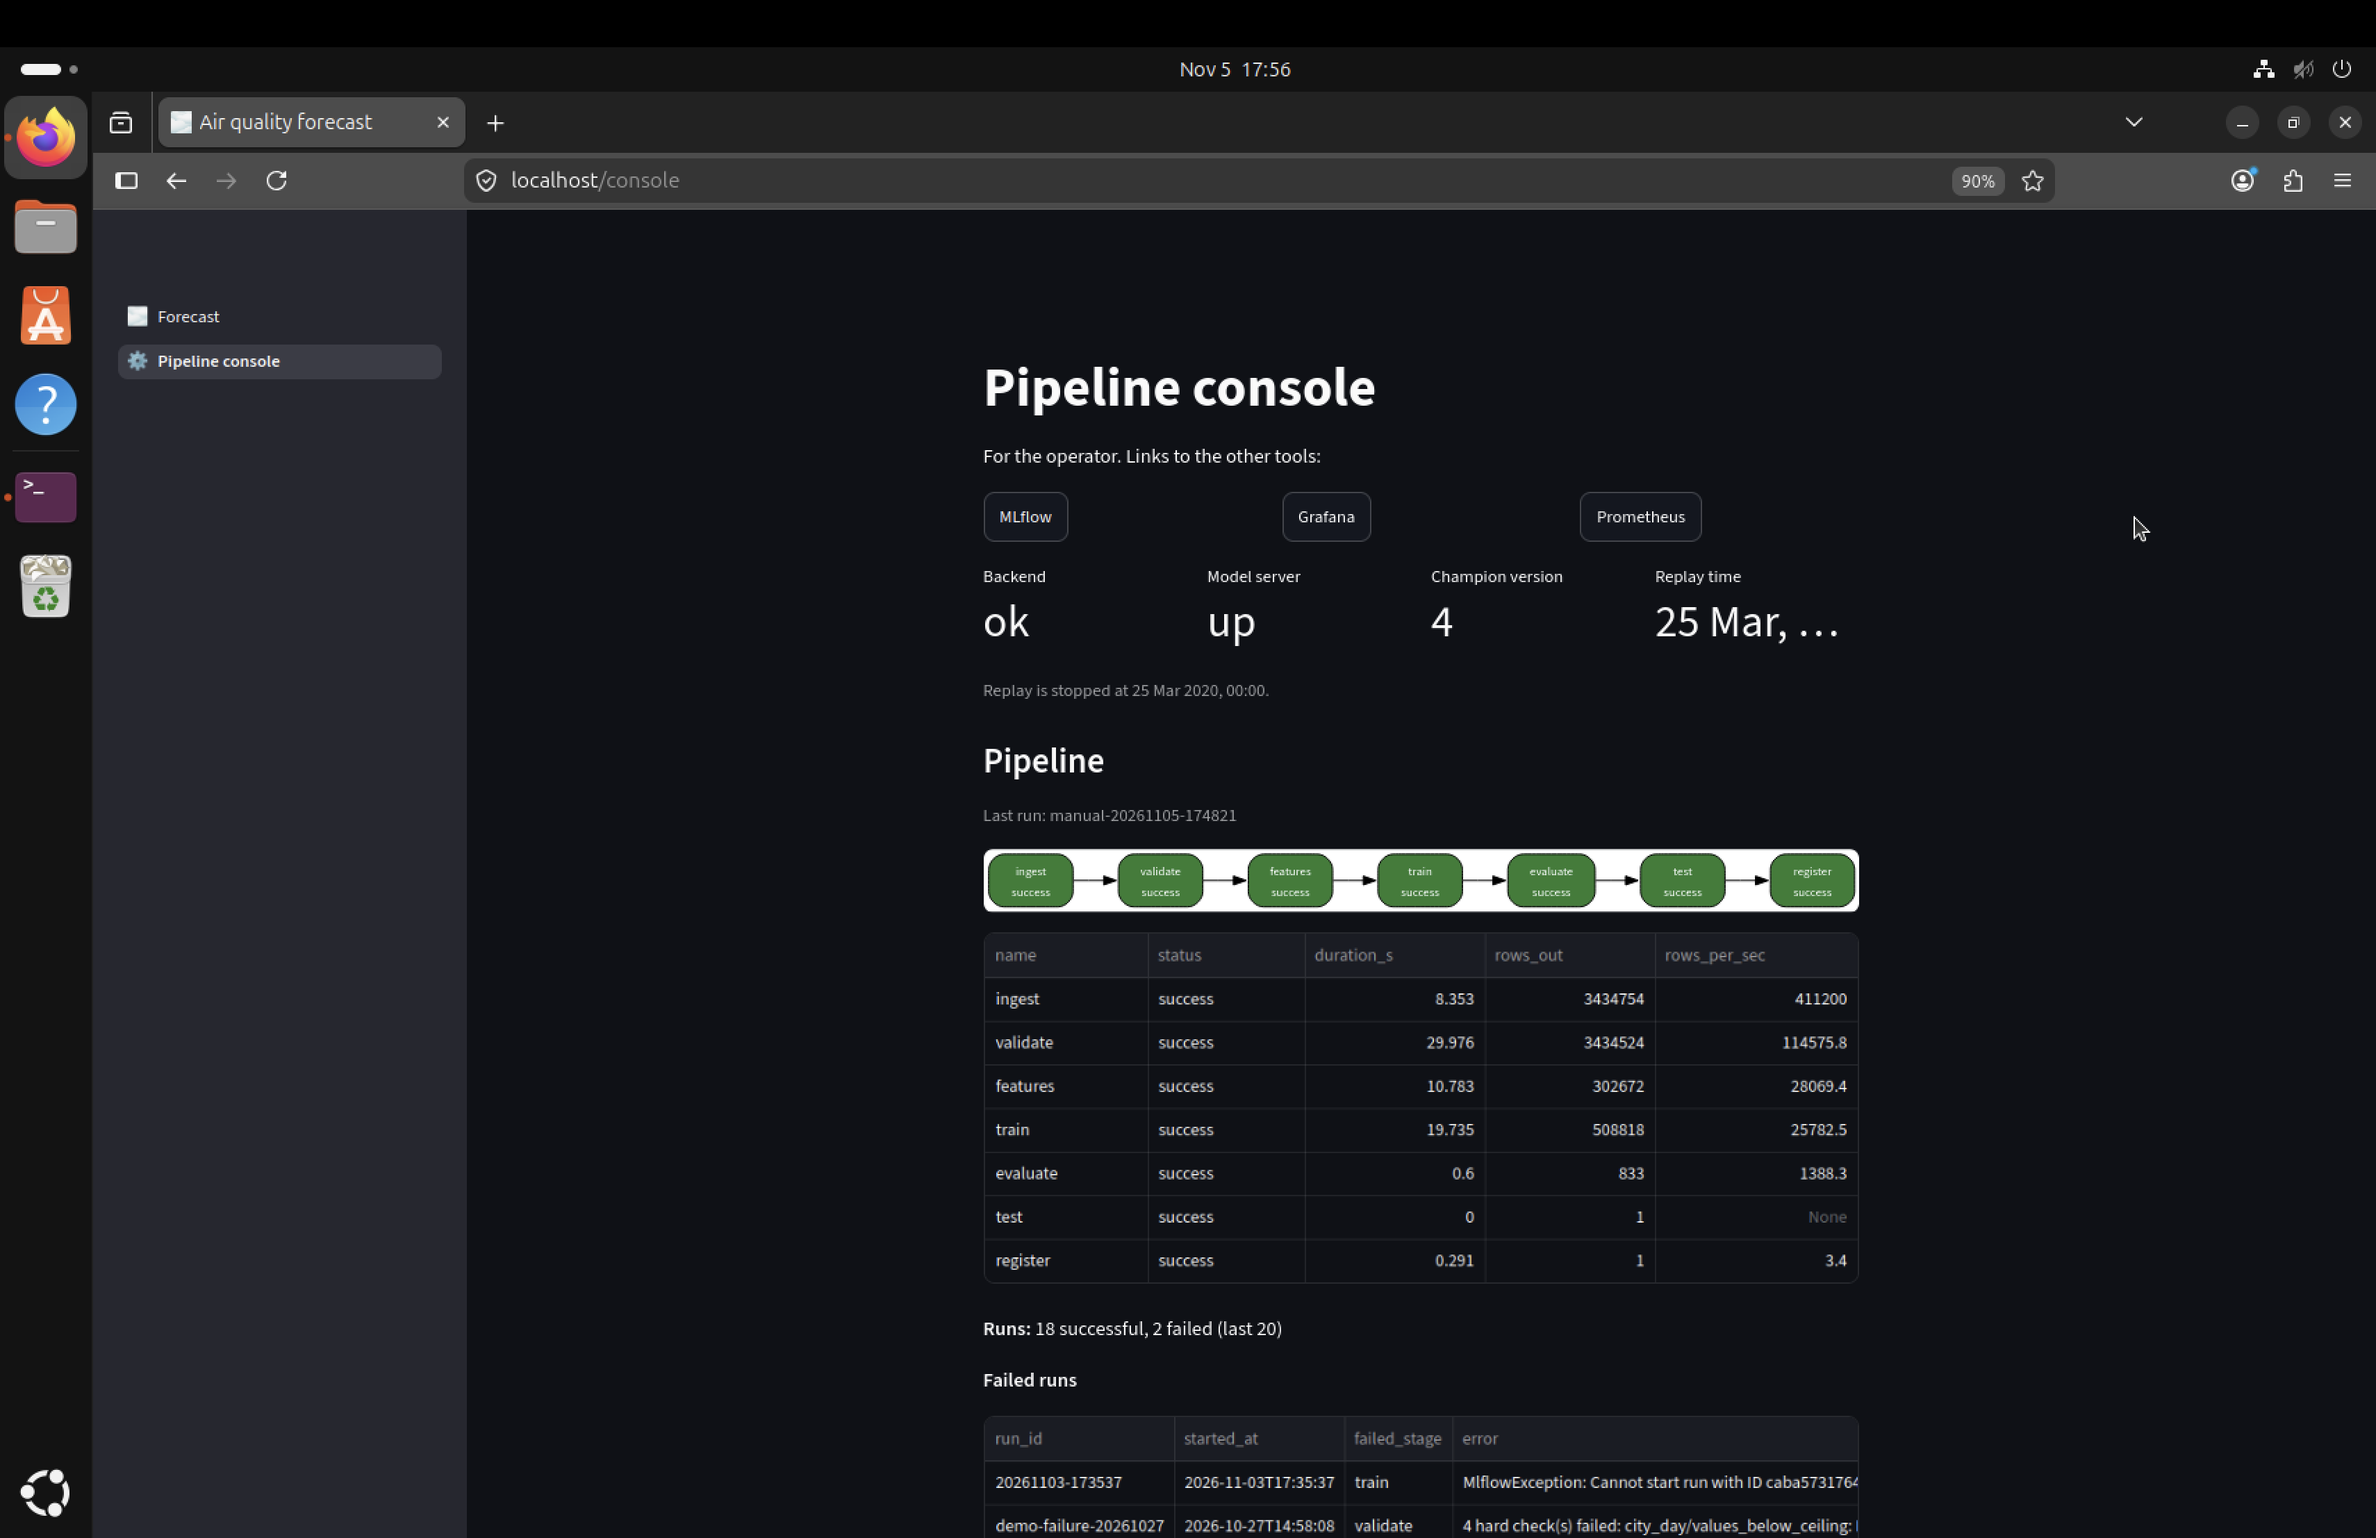
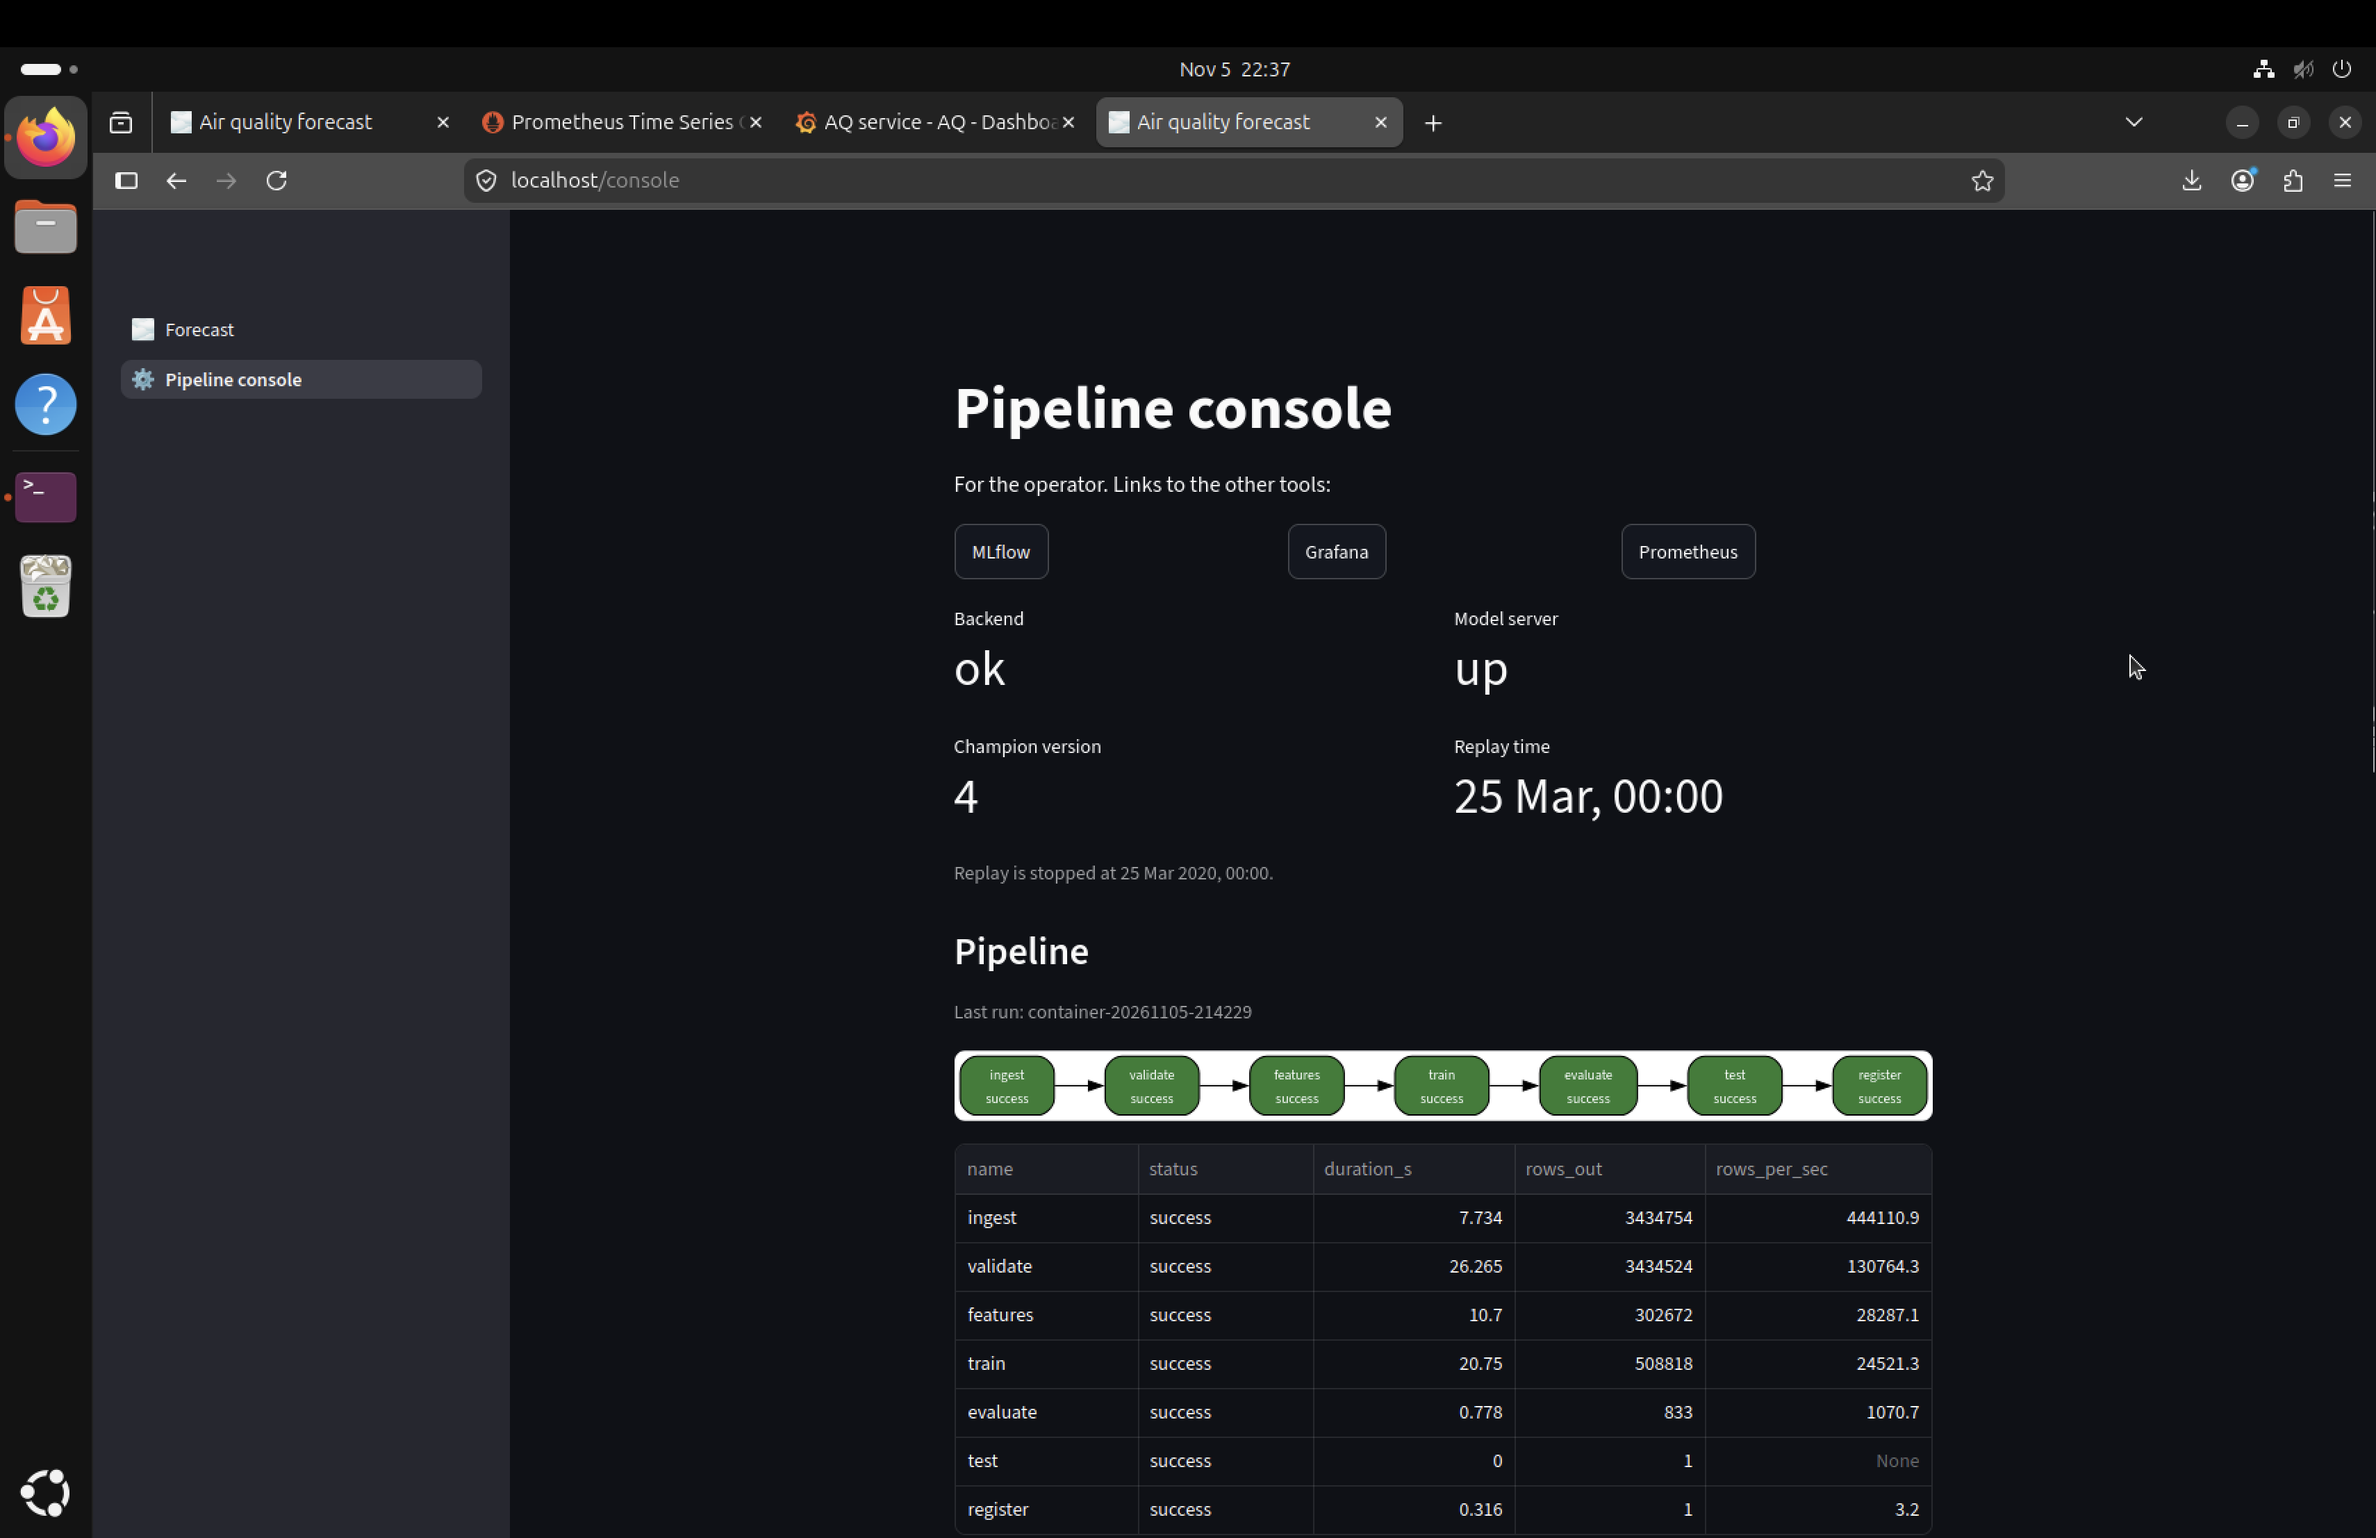
Screenshot 08 retaken, D-5 verified and closed
The retaken 08_console_top.png (Firefox, default zoom, 22:37) shows the
console status boxes as two rows of two, with Replay time "25 Mar, 00:00"
in full. The test report closes D-5 as verified, and the final audit,
rubric checklist, README and PROGRESS no longer list a retake.
scripts/ci.sh: 359 of 359, DVC clean and in sync.

diff --git a/docs/test_report.md b/docs/test_report.md
@@ -86,7 +86,7 @@ The slowest single tests are the Spark ones (`test_missing_by_city_year` 5.0 s, 
 | E2E-14 CI with `--repro` | Pass | Stage 16 | every step PASS, `reports/ci/last_run.log` |
 | E2E-15 Reproduce the champion | Pass | Today | section 4, AC-6 |
 | E2E-16 Pre-commit hook | Pass | Stage 16 | commit refused with ruff D100 and F401; guard failed on `certs/ca.crt` and `.env` (PROGRESS Part 16) |
-| E2E-17 Pages in a browser | Pass | 2026-11-05 | 11 screenshots in Firefox on the VM's desktop, in `docs/screenshots/` and linked from the user manual. Responsive: `05_forecast_mobile.png` uses Firefox's responsive mode at iPhone 14 size (393 x 852). The page fits the width, the text wraps and the two colour cards stack in one column. The console screenshot `08_console_top.png` showed the replay time cut off, defect D-5 |
+| E2E-17 Pages in a browser | Pass | 2026-11-05 | 11 screenshots in Firefox on the VM's desktop, in `docs/screenshots/` and linked from the user manual. Responsive: `05_forecast_mobile.png` uses Firefox's responsive mode at iPhone 14 size (393 x 852). The page fits the width, the text wraps and the two colour cards stack in one column. The first console screenshot `08_console_top.png` showed the replay time cut off (defect D-5). The retaken one shows it in full |
 | E2E-18 Pushgateway survives a restart | Pass | 2026-10-27 | probe metric still served after `down`/`up` (metrics.md, "Final audit fixes") |
 | E2E-19 Runner pauses containers | Pass | 2026-10-27 | frontend and Grafana stopped and started again within 2.3 s, request `failed` with `paused`, proxy 503 page (metrics.md) |
 | E2E-20 Fresh clone | Pass | 2026-11-03 | `scripts/bootstrap.sh` exit 0 in 7 min 20 s, v1 champion, stack healthy in about 25 s, forecast 200, 9/9 targets up (metrics.md) |
@@ -190,7 +190,7 @@ The two LightGBM files are identical byte for byte. So a model can be rebuilt fr
 
 **Still weak after D-2, fixed on 2026-11-05.** With MLflow down, the rollback error said "No previous version to roll back to", because the lookup of `previous` swallowed the connection error and returned nothing. The answer was safe (nothing changed) but the message was wrong. **Fix:** the registry now treats only MLflow's "not found" codes (`RESOURCE_DOES_NOT_EXIST`, `INVALID_PARAMETER_VALUE`) as "not there". Any other error during a rollback raises `RegistryUnavailableError`, and the backend answers 503 `REGISTRY_UNAVAILABLE` (LLD section 1). Lookups for serving stay lenient, so forecasts keep working. Live check on the rebuilt backend, with the `mlflow` container stopped: `POST /ops/rollback` with `{}` gave 503 `REGISTRY_UNAVAILABLE` in 4.4 s, and with `{"version": "1"}` the same in 4.9 s. A forecast still answered 200 in 4.6 s. 35 s after MLflow was back, `champion` was still 4 and `previous` 1. The 4.5 s forecast with MLflow down is unchanged: the client still retries before it gives up.
 
-**D-5. The console's replay time was cut off in a real browser** (2026-11-05, E2E-17). Screenshot `08_console_top.png`, in Firefox at 90% zoom, shows the "Replay time" status box as "25 Mar, …". The final audit had marked this fixed, because Streamlit's `AppTest` showed the short value "25 Mar, 00:00". `AppTest` checks values, not widths. The four status boxes shared one row of the centred page, so each was about a quarter of its width. **Fix:** the console shows them as two rows of two. A new test, `test_console_status_boxes_are_two_per_row`, checks that each box sits in a half-width column. It fails on the old layout. On the rebuilt frontend, the live console has all four boxes at half width, with "Replay time" at "25 Mar, 00:00". I have no browser on the VM, so screenshot 08 still shows the old row and needs to be taken again.
+**D-5. The console's replay time was cut off in a real browser** (2026-11-05, E2E-17). The first `08_console_top.png`, in Firefox at 90% zoom, showed the "Replay time" status box as "25 Mar, …". The final audit had marked this fixed, because Streamlit's `AppTest` showed the short value "25 Mar, 00:00". `AppTest` checks values, not widths. The four status boxes shared one row of the centred page, so each was about a quarter of its width. **Fix:** the console shows them as two rows of two. A new test, `test_console_status_boxes_are_two_per_row`, checks that each box sits in a half-width column. It fails on the old layout. On the rebuilt frontend, the live console has all four boxes at half width, with "Replay time" at "25 Mar, 00:00". **Verified and closed (2026-11-05, 22:37):** the retaken `08_console_top.png`, in Firefox at default zoom, shows the two rows of two, and "Replay time" reads "25 Mar, 00:00" in full.
 
 **D-4. The batch container could not run the pipeline** (2026-11-05, E2E-23). Compose runs it as my host uid (1000), so the files it writes stay mine. The image only knows its own user (10001). DVC failed at once with `getpwuid(): uid not found: 1000` (from `getpass.getuser()`). With `USER` set, Spark failed next, in Hadoop's login: `invalid null input: name`. That code reads the user database directly and ignores the variable. **Fix:** compose mounts the host's `/etc/passwd` and `/etc/group` read-only into the pipeline container. The container already runs as my uid and mounts the whole project, so this adds little exposure, and the published image did not need a rebuild. Checked through plain `docker compose run`: `id -un` gives my user, `dvc status` works and a Spark session starts as `krish-yadav`. The Spark attempt left one real `ingest failed` record (`container-20261105-214205`) in `runs.jsonl`.
 
@@ -198,7 +198,7 @@ The two LightGBM files are identical byte for byte. So a model can be rebuilt fr
 
 ## 6. What this report does not show
 
-- **One browser, no real phone.** The pages were checked in Firefox on the VM, and the narrow layout in Firefox's responsive mode at iPhone 14 size (E2E-17). Not on a real phone or in another browser. Screenshot 08 predates the D-5 fix.
+- **One browser, no real phone.** The pages were checked in Firefox on the VM, and the narrow layout in Firefox's responsive mode at iPhone 14 size (E2E-17). Not on a real phone or in another browser.
 - **Auto-rollback after a failed smoke check** is tested with fakes only (`test_failed_smoke_check_rolls_back`). I have not made a real model fail.
 - **The hot swap** with 0 failed requests was measured outside Docker (Stage 9), not in the compose stack.
 - **Latency is serial.** I did not load-test with concurrent users.

diff --git a/docs/rubric_checklist.md b/docs/rubric_checklist.md
@@ -18,7 +18,7 @@ Index digests and platforms from `docker buildx imagetools inspect <image>:0.1.0
 | `infernogod/aq-mlflow` | `sha256:480341e8bcc9…` | linux/amd64, linux/arm64 |
 | `infernogod/aq-pipeline` | `sha256:376209d720ec…` | linux/amd64, linux/arm64 |
 
-2. **Screenshots (done on 2026-11-05).** 11 screenshots are in `docs/screenshots/` and linked from the user manual. Screenshot 08 shows the console before the D-5 fix (replay time cut off) and should be taken again. *As of Stage 17:* None are committed. The user manual has 13 marked placeholders (`docs/user_manual.md`). The Grafana dashboards and a fired alert (Stage 14) also need screenshots. The two files in `docs/screenshots/` are early drafts from before the UI was final.
+2. **Screenshots (done on 2026-11-05).** 11 screenshots are in `docs/screenshots/` and linked from the user manual. Screenshot 08 was taken again after the D-5 fix, and it shows the replay time in full. *As of Stage 17:* None are committed. The user manual has 13 marked placeholders (`docs/user_manual.md`). The Grafana dashboards and a fired alert (Stage 14) also need screenshots. The two files in `docs/screenshots/` are early drafts from before the UI was final.
 3. **A browser check of both pages (E2E-17, passed on 2026-11-05).** Both pages in Firefox, and the forecast page in responsive mode at iPhone 14 size (393 x 852): it fits and the cards stack. It found D-5, the cut-off replay time, which is now fixed. *As of Stage 17:* The pages are tested through Streamlit's `AppTest` and `curl`, never clicked through on this VM. "Responsive" is not checked at all: Streamlit's column layout should stack on a narrow screen, but I have not looked at it in a narrow window or on a phone.
 
 **Weak (true, but I should be ready to defend it in the viva):**

diff --git a/docs/final_audit.md b/docs/final_audit.md
@@ -92,9 +92,9 @@ The 11 screenshots are in `docs/screenshots/`. Every image link in `docs/user_ma
 | Responsive | WEAK | PASS | `05_forecast_mobile.png`: Firefox responsive mode at iPhone 14 size (393 x 852). The page fits the width, the text wraps and the two cards stack (E2E-17) |
 | User manual exists | WEAK | PASS | `docs/user_manual.md` with 11 screenshots |
 | User manual (mandatory doc) | WEAK | PASS | same |
-| Free of UI errors | PASS | PASS, after a fix | The browser check contradicted the 2026-11-03 evidence. Screenshot 08 shows "Replay time" cut off as "25 Mar, …" at 90% zoom, because `AppTest` sees values and not widths. Fixed the same day: two status boxes per row, with a test, checked on the rebuilt frontend (test report D-5). Screenshot 08 predates the fix and should be taken again |
+| Free of UI errors | PASS | PASS, after a fix | The browser check contradicted the 2026-11-03 evidence. The first screenshot 08 showed "Replay time" cut off as "25 Mar, …" at 90% zoom, because `AppTest` sees values and not widths. Fixed the same day: two status boxes per row, with a test, checked on the rebuilt frontend (test report D-5). Verified in a real browser: the retaken screenshot 08 shows "25 Mar, 00:00" in full |
 
-**Tally after this update:** 60 PASS, 0 WEAK, 0 FAIL. What is left in section (b): retake screenshot 08, the GitHub remote, the demo video and viva preparation, and a check on a real phone (optional).
+**Tally after this update:** 60 PASS, 0 WEAK, 0 FAIL. What is left in section (b): the GitHub remote, the demo video and viva preparation, and a check on a real phone (optional).
 
 ### Other checks I ran today
 

diff --git a/docs/PROGRESS.md b/docs/PROGRESS.md
@@ -1446,7 +1446,10 @@ The serve stack is running and healthy. Registry: champion 4, previous 1. The op
 
 - I trusted a structural test for a visual fault on 2026-11-03. Only a real browser showed it.
 
+### D-5 verified
+
+Screenshot 08 was taken again at 22:37 in Firefox at default zoom. It shows the two rows of two, and "Replay time" reads "25 Mar, 00:00" in full. D-5 is closed in the test report.
+
 ### Still open
 
-- Screenshot 08 predates the fix and needs to be taken again. I have no browser on the VM.
 - Section (b) of the final audit: the GitHub remote, the demo video and viva preparation, and a check on a real phone (optional).

diff --git a/README.md b/README.md
@@ -204,4 +204,5 @@ Digest:    sha256:376209d720ec7362074fdef8e9c2fcaa2dff7c1b6116c5d714f8b8a0d2ab44
 
 ## Not done yet
 
-- Screenshot 08 (console top) shows the console before the fix for the cut-off replay time, and needs to be taken again.
+- The GitHub remote and the demo video.
+- A check on a real phone. The narrow layout is checked only in Firefox's responsive mode.
